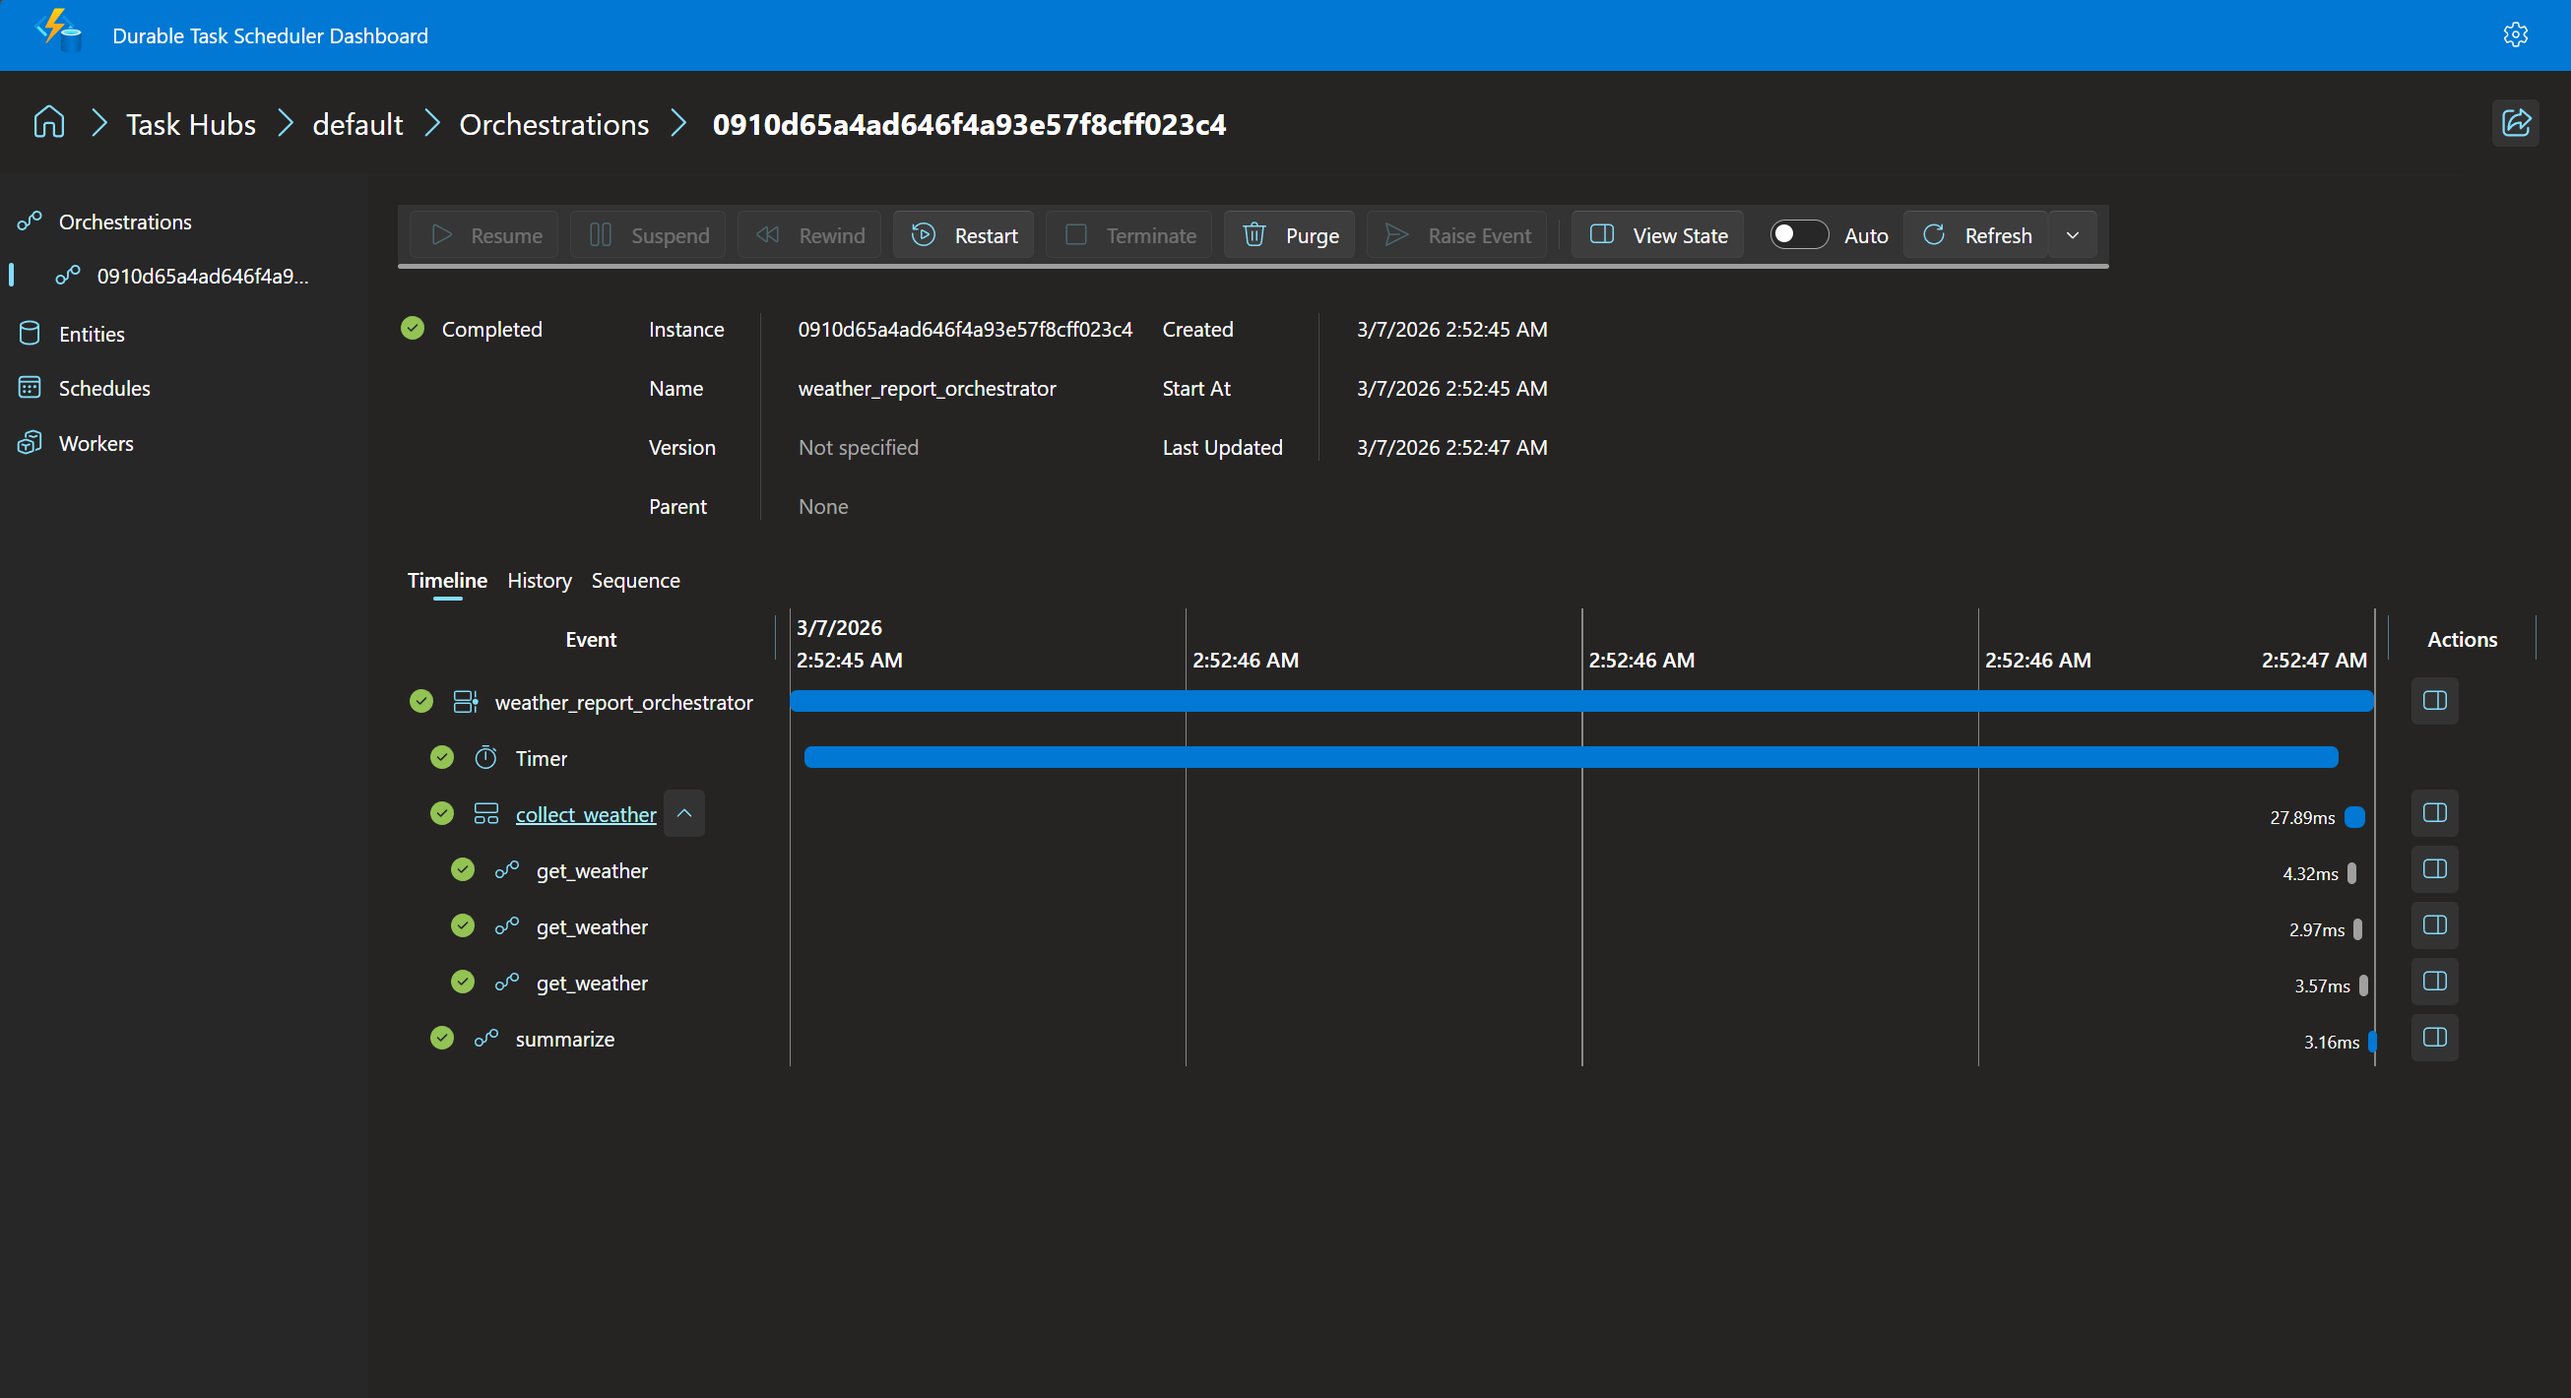
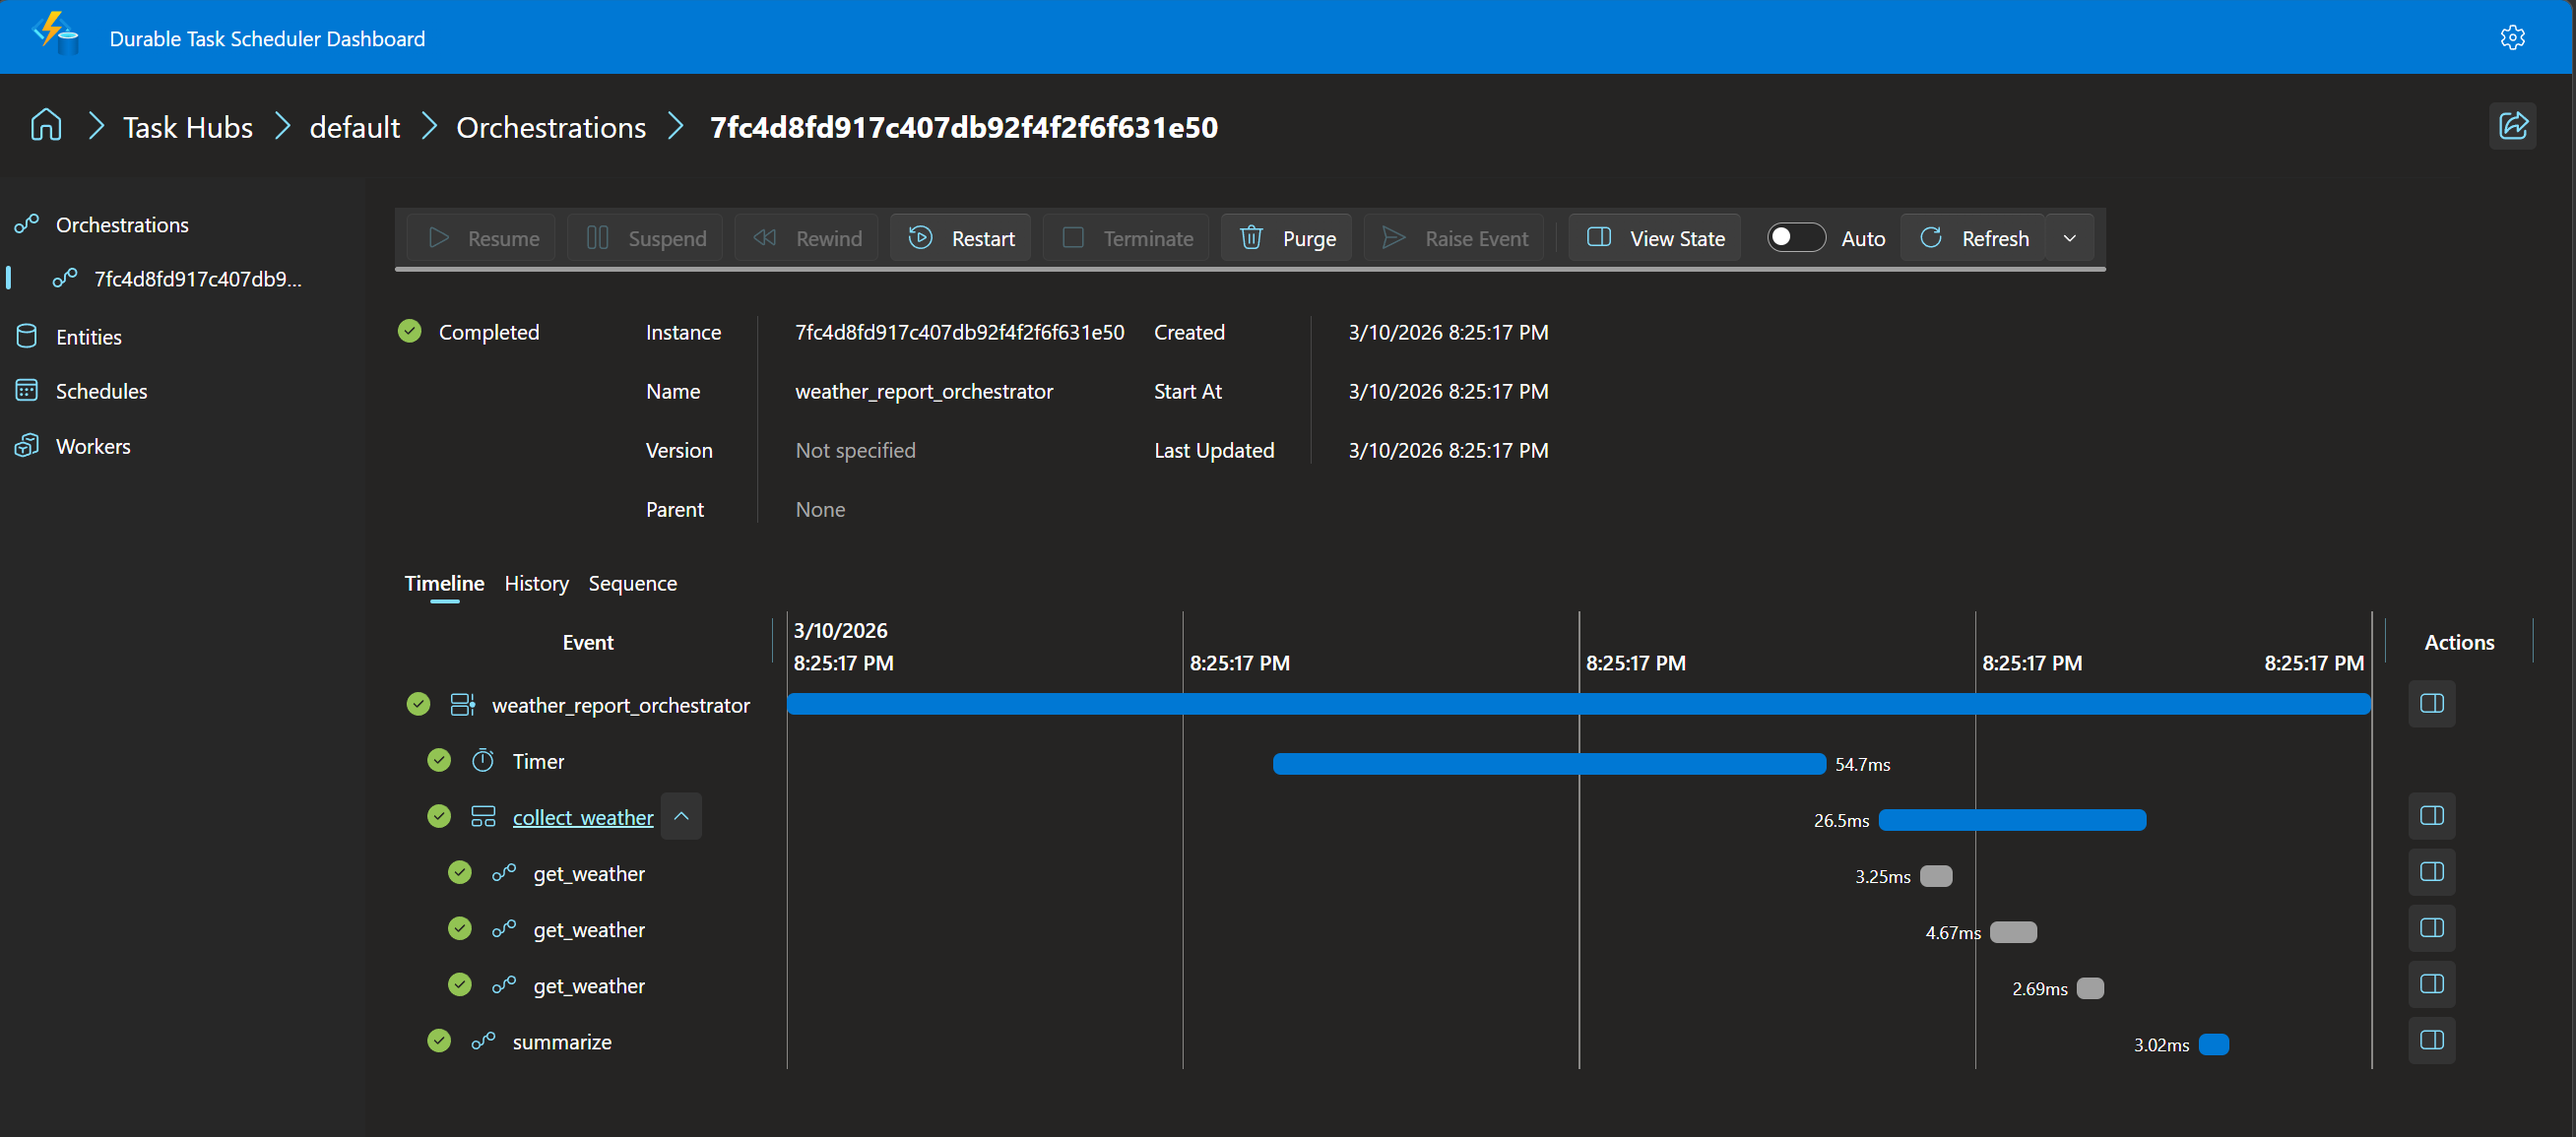
PR feedback, instrument async client

diff --git a/durabletask/client.py b/durabletask/client.py
@@ -190,6 +190,13 @@ class TaskHubGrpcClient:
                 reuse_id_policy=reuse_id_policy, tags=tags,
                 version=version if version else self.default_version)
 
+            # Inject the active PRODUCER span context into the request so the sidecar
+            # stores it in the executionStarted event and the worker can parent all
+            # orchestration/activity/timer spans under this trace.
+            parent_trace_ctx = tracing.get_current_trace_context()
+            if parent_trace_ctx is not None:
+                req.parentTraceContext.CopyFrom(parent_trace_ctx)
+
             self._logger.info(f"Starting new '{req.name}' instance with ID = '{req.instanceId}'.")
             res: pb.CreateInstanceResponse = self._stub.StartInstance(req)
             return res.instanceId
@@ -427,14 +434,25 @@ class AsyncTaskHubGrpcClient:
                                          tags: Optional[dict[str, str]] = None,
                                          version: Optional[str] = None) -> str:
 
-        req = build_schedule_new_orchestration_req(
-            orchestrator, input=input, instance_id=instance_id, start_at=start_at,
-            reuse_id_policy=reuse_id_policy, tags=tags,
-            version=version if version else self.default_version)
+        name = orchestrator if isinstance(orchestrator, str) else task.get_name(orchestrator)
+        resolved_instance_id = instance_id if instance_id else uuid.uuid4().hex
+        resolved_version = version if version else self.default_version
 
-        self._logger.info(f"Starting new '{req.name}' instance with ID = '{req.instanceId}'.")
-        res: pb.CreateInstanceResponse = await self._stub.StartInstance(req)
-        return res.instanceId
+        with tracing.start_create_orchestration_span(
+            name, resolved_instance_id, version=resolved_version,
+        ):
+            req = build_schedule_new_orchestration_req(
+                orchestrator, input=input, instance_id=instance_id, start_at=start_at,
+                reuse_id_policy=reuse_id_policy, tags=tags,
+                version=version if version else self.default_version)
+
+            parent_trace_ctx = tracing.get_current_trace_context()
+            if parent_trace_ctx is not None:
+                req.parentTraceContext.CopyFrom(parent_trace_ctx)
+
+            self._logger.info(f"Starting new '{req.name}' instance with ID = '{req.instanceId}'.")
+            res: pb.CreateInstanceResponse = await self._stub.StartInstance(req)
+            return res.instanceId
 
     async def get_orchestration_state(self, instance_id: str, *,
                                       fetch_payloads: bool = True) -> Optional[OrchestrationState]:
@@ -496,10 +514,10 @@ class AsyncTaskHubGrpcClient:
 
     async def raise_orchestration_event(self, instance_id: str, event_name: str, *,
                                         data: Optional[Any] = None) -> None:
-        req = build_raise_event_req(instance_id, event_name, data)
-
-        self._logger.info(f"Raising event '{event_name}' for instance '{instance_id}'.")
-        await self._stub.RaiseEvent(req)
+        with tracing.start_raise_event_span(event_name, instance_id):
+            req = build_raise_event_req(instance_id, event_name, data)
+            self._logger.info(f"Raising event '{event_name}' for instance '{instance_id}'.")
+            await self._stub.RaiseEvent(req)
 
     async def terminate_orchestration(self, instance_id: str, *,
                                       output: Optional[Any] = None,

diff --git a/examples/distributed-tracing/app.py b/examples/distributed-tracing/app.py
@@ -97,7 +97,7 @@ def weather_report_orchestrator(ctx: task.OrchestrationContext, cities: list):
       3. Call an activity to summarize the results.
     """
     # Step 1 — Timer: wait briefly before starting work
-    yield ctx.create_timer(timedelta(seconds=2))
+    yield ctx.create_timer(timedelta(milliseconds=100))
     if not ctx.is_replaying:
         print("  [Orchestrator] Timer fired — starting weather collection")
 
